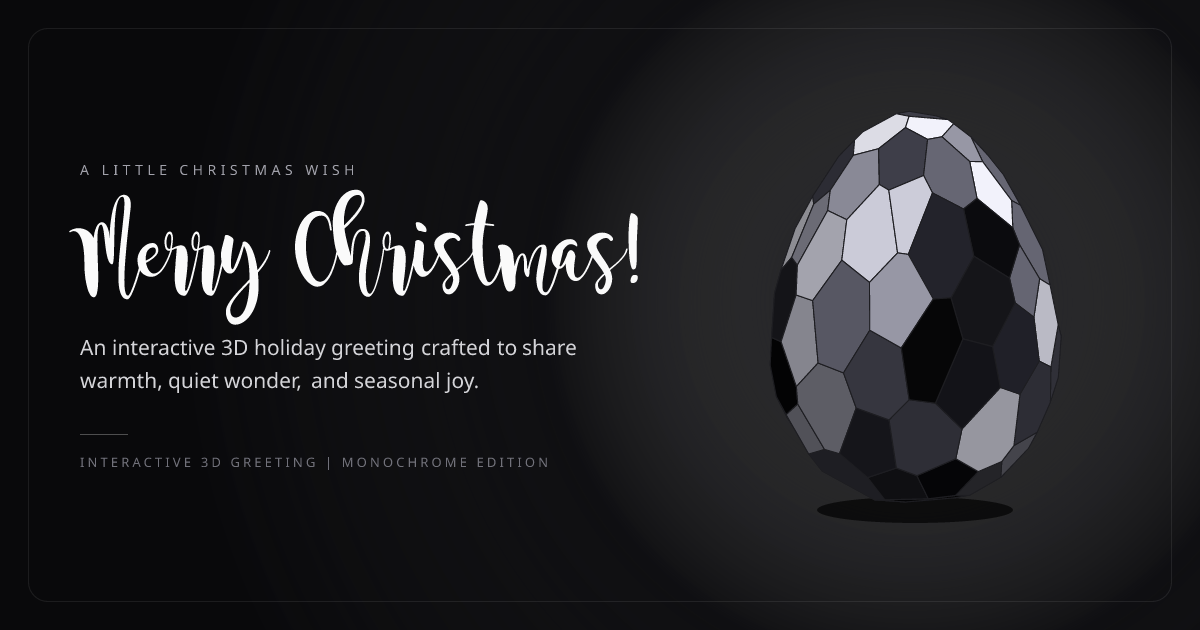
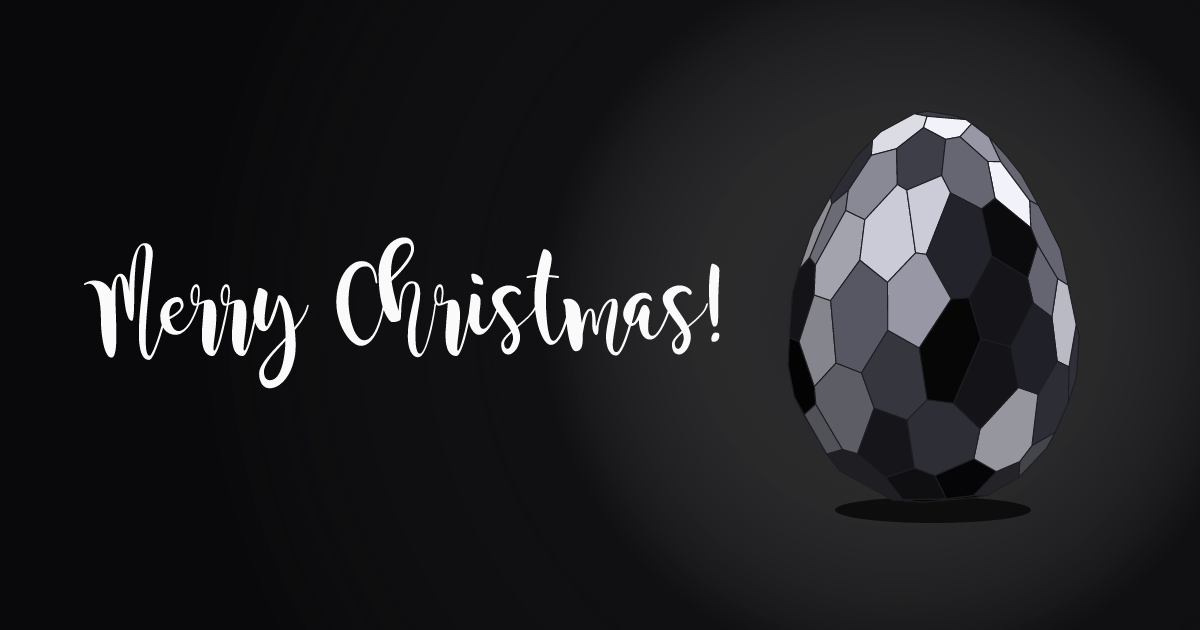
refactor: remove redundant SEO descriptions
Removed description fields from SEO configuration and metadata to reduce content bloat and simplify site headers.

diff --git a/lib/seo.ts b/lib/seo.ts
@@ -55,7 +55,6 @@ export interface PageSeoConfig {
   path: '/' | '/orb';
   title: string;
   socialTitle: string;
-  description: string;
   imagePath: '/og-image.png' | '/og-orb.png';
   imageAlt: string;
 }
@@ -64,22 +63,16 @@ export const HOME_SEO: PageSeoConfig = {
   path: '/',
   title: 'Merry Christmas! | A Little Christmas Wish',
   socialTitle: 'Merry Christmas! | A Little Christmas Wish',
-  description:
-    'Open this interactive 3D monochrome Christmas wish to share warmth, quiet wonder, and festive joy with the people who matter.',
   imagePath: '/og-image.png',
-  imageAlt:
-    'A Little Christmas Wish — Merry Christmas! monochrome 3D faceted holiday sculpture preview card',
+  imageAlt: 'Merry Christmas! monochrome 3D faceted Christmas sculpture',
 };
 
 export const ORB_SEO: PageSeoConfig = {
   path: '/orb',
   title: 'Christmas Ornament | A Little Christmas Wish',
-  socialTitle: 'Christmas Ornament | A Little Christmas Wish',
-  description:
-    'Rotate and open this interactive 3D monochrome Christmas ornament to reveal a quiet holiday greeting crafted to share online.',
+  socialTitle: 'Merry Christmas! | A Little Christmas Wish',
   imagePath: '/og-orb.png',
-  imageAlt:
-    'A Little Christmas Wish — Merry Christmas! monochrome spiral 3D Christmas ornament preview card',
+  imageAlt: 'Merry Christmas! monochrome 3D spiral Christmas ornament',
 };
 
 export async function buildPageMetadata(
@@ -92,7 +85,6 @@ export async function buildPageMetadata(
   return {
     metadataBase: new URL(siteUrl),
     title: config.title,
-    description: config.description,
     applicationName: SITE_NAME,
     alternates: {
       canonical: pageUrl,
@@ -103,7 +95,6 @@ export async function buildPageMetadata(
     },
     openGraph: {
       title: config.socialTitle,
-      description: config.description,
       url: pageUrl,
       siteName: SITE_NAME,
       type: 'website',
@@ -122,7 +113,6 @@ export async function buildPageMetadata(
     twitter: {
       card: 'summary_large_image',
       title: config.socialTitle,
-      description: config.description,
       images: [
         {
           url: imageUrl,

diff --git a/app/layout.tsx b/app/layout.tsx
@@ -39,7 +39,6 @@ const structuredData = {
   name: SITE_NAME,
   applicationCategory: 'LifestyleApplication',
   operatingSystem: 'All',
-  description: HOME_SEO.description,
   offers: {
     '@type': 'Offer',
     price: '0',
